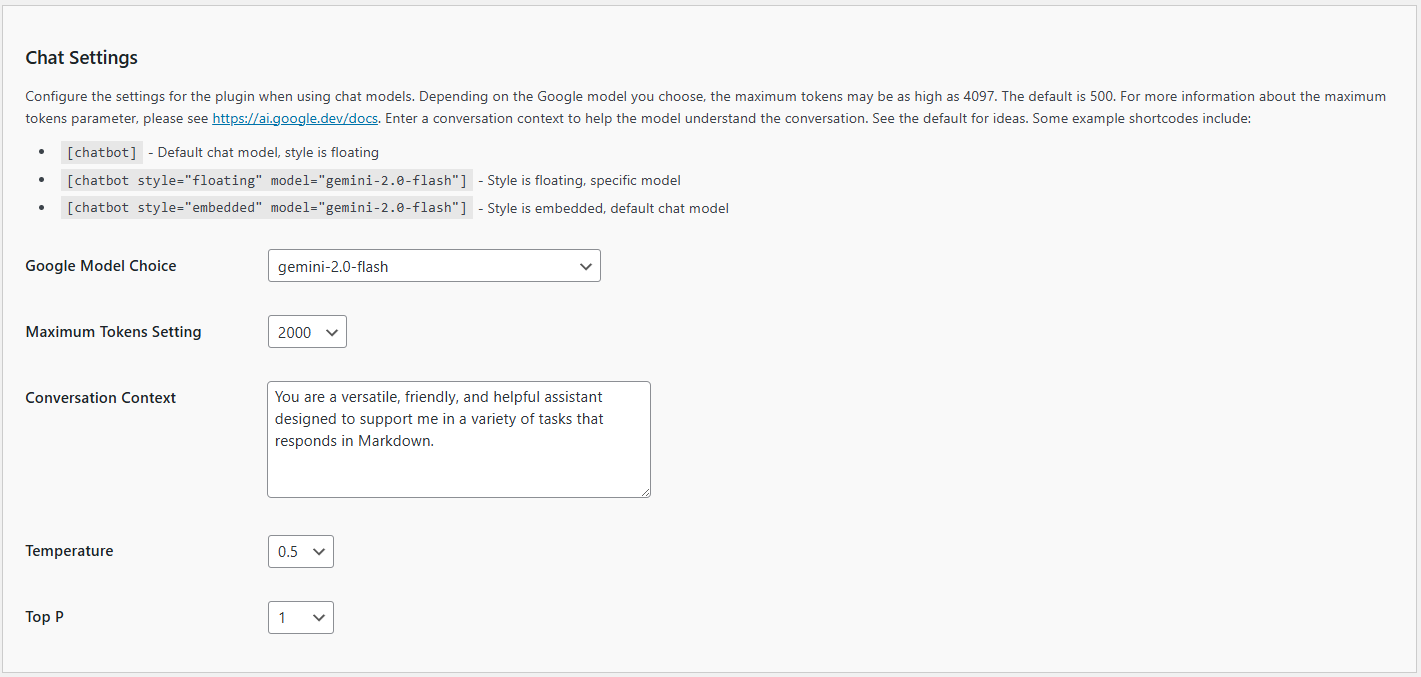
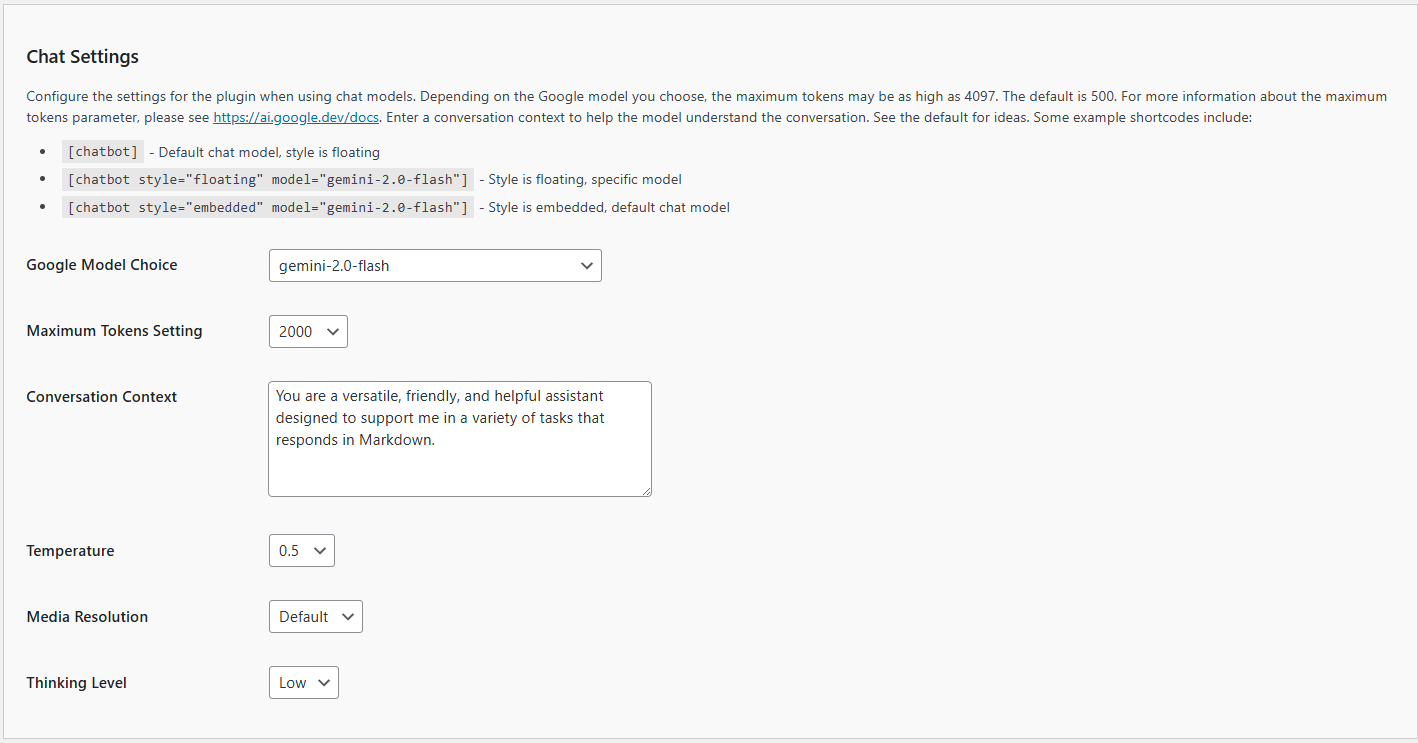
V2.3.9 - Updated the documentation for the Maximum Tokens Setting across all API documentation

diff --git a/documentation/api-google-settings/chat-settings.md b/documentation/api-google-settings/chat-settings.md
@@ -11,8 +11,8 @@ To ensure your Kognetiks Chatbot functions optimally, you need to configure the 
 
 2. **Maximum Tokens Setting**:
    - **Description**: This setting determines the maximum number of tokens (words and parts of words) the model can use in a single response. This helps control the length and detail of the responses.
-   - **Default Value**: The default is set to 150 tokens, but it can be increased up to 4097 tokens.
-   - **How to Set**: Enter the desired number of tokens in the provided field. For example, `1000`.
+   - **Default Value**: The default is set to 1000 tokens, but it can be adjusted between 100 and 10000 tokens.
+   - **How to Set**: Select the desired number of tokens from the dropdown menu. For example, `1000`.
 
 3. **Conversation Context**:
    - **Description**: This field is used to set the context for the conversation, helping the model understand the nature and tone of interactions.
@@ -20,14 +20,27 @@ To ensure your Kognetiks Chatbot functions optimally, you need to configure the 
    - **How to Set**: Enter a suitable conversation context that matches the intended use of the chatbot.
 
 4. **Temperature**:
-   - **Description**: This setting controls the randomness of the model's responses. A lower value (closer to 0) makes the output more focused and deterministic, while a higher value (closer to 1) makes it more random and creative.
+   - **Description**: This setting controls the randomness of the model's responses. A lower value (closer to 0) makes the output more focused and deterministic, while a higher value (closer to 2) makes it more random and creative.
    - **Default Value**: The default is set to 0.5.
-   - **How to Set**: Use the dropdown menu to select a value between 0 and 1.
+   - **How to Set**: Use the dropdown menu to select a value between 0.01 and 2.01.
 
-5. **Top P**:
-   - **Description**: This setting, also known as "nucleus sampling," controls the diversity of the responses. It considers the smallest possible set of words whose cumulative probability is greater than or equal to the value of `Top P`.
-   - **Default Value**: The default is set to 1.
-   - **How to Set**: Use the dropdown menu to select a value between 0 and 1.
+5. **Media Resolution**:
+   - **Description**: This setting controls the resolution quality for media (images) processed by the model. Higher resolutions provide more detail but may increase processing time and token usage. This setting is particularly useful when working with vision-enabled models.
+   - **Options**: 
+     - **Default**: Uses the model's default media resolution
+     - **Low**: Lower resolution, faster processing, fewer tokens
+     - **Medium**: Balanced resolution and processing
+     - **High**: Higher resolution, more detailed analysis, more tokens
+   - **Default Value**: The default is set to "Default".
+   - **How to Set**: Select the desired resolution from the dropdown menu.
+
+6. **Thinking Level**:
+   - **Description**: This setting controls the depth of reasoning for thinking models (such as Gemini 2.0 Thinking models). A higher thinking level allows the model to engage in more complex reasoning processes, which can improve problem-solving capabilities but may increase response time.
+   - **Options**:
+     - **Low**: Faster responses with basic reasoning
+     - **High**: Slower responses with deeper, more thorough reasoning
+   - **Default Value**: The default is set to "Low".
+   - **How to Set**: Select the desired thinking level from the dropdown menu.
 
 ## Example Shortcodes
 
@@ -55,21 +68,27 @@ To ensure your Kognetiks Chatbot functions optimally, you need to configure the 
 
 2. Select the default chat model from the dropdown menu.
 
-3. Enter the maximum tokens setting appropriate for your needs.
+3. Select the maximum tokens setting appropriate for your needs.
 
 4. Provide a clear and concise conversation context to guide the chatbot's interactions.
 
 5. Adjust the temperature setting to control the creativity of the responses.
 
-6. Adjust the Top P setting to manage the diversity of the responses.
+6. Select the media resolution appropriate for your use case (especially important for vision-enabled models).
 
-7. Save the settings.
+7. Select the thinking level if you're using a thinking model (Low for faster responses, High for deeper reasoning).
+
+8. Save the settings.
 
 ## Tips
 
 - **Adjusting Token Limits**: Higher token limits can result in more detailed responses but also increase API usage.
 
-- **Experiment with Temperature and Top P**: Fine-tuning these settings can help you achieve the desired balance between response creativity and coherence.
+- **Experiment with Temperature**: Fine-tuning this setting can help you achieve the desired balance between response creativity and coherence.
+
+- **Media Resolution Considerations**: When working with images, choose a resolution that balances detail with processing speed and token usage. Higher resolutions are better for detailed image analysis but consume more tokens.
+
+- **Thinking Level Selection**: Use "High" thinking level for complex problem-solving tasks, but expect longer response times. Use "Low" for faster, more straightforward interactions.
 
 - **Context Matters**: Providing a well-defined conversation context can significantly improve the relevance and helpfulness of the chatbot's responses.
 

diff --git a/documentation/api-azure-openai-settings/chat-settings.md b/documentation/api-azure-openai-settings/chat-settings.md
@@ -11,8 +11,8 @@ To ensure your Kognetiks Chatbot functions optimally, you need to configure the 
 
 2. **Maximum Tokens Setting**:
    - **Description**: This setting determines the maximum number of tokens (words and parts of words) the model can use in a single response. This helps control the length and detail of the responses.
-   - **Default Value**: The default is set to 150 tokens, but it can be increased up to 4097 tokens.
-   - **How to Set**: Enter the desired number of tokens in the provided field. For example, `1000`.
+   - **Default Value**: The default is set to 1000 tokens, but it can be increased up to 16384 tokens.
+   - **How to Set**: Select the desired number of tokens from the dropdown menu. For example, `1000`.
 
 3. **Conversation Context**:
    - **Description**: This field is used to set the context for the conversation, helping the model understand the nature and tone of interactions.

diff --git a/documentation/api-chatgpt-settings/chat-settings.md b/documentation/api-chatgpt-settings/chat-settings.md
@@ -11,8 +11,8 @@ To ensure your Kognetiks Chatbot functions optimally, you need to configure the 
 
 2. **Maximum Tokens Setting**:
    - **Description**: This setting determines the maximum number of tokens (words and parts of words) the model can use in a single response. This helps control the length and detail of the responses.
-   - **Default Value**: The default is set to 150 tokens, but it can be increased up to 4097 tokens.
-   - **How to Set**: Enter the desired number of tokens in the provided field. For example, `1000`.
+   - **Default Value**: The default is set to 1000 tokens, but it can be increased up to 16384 tokens.
+   - **How to Set**: Select the desired number of tokens from the dropdown menu. For example, `1000`.
 
 3. **Conversation Context**:
    - **Description**: This field is used to set the context for the conversation, helping the model understand the nature and tone of interactions.

diff --git a/documentation/api-anthropic-settings/chat-settings.md b/documentation/api-anthropic-settings/chat-settings.md
@@ -11,8 +11,8 @@ To ensure your Kognetiks Chatbot functions optimally, you need to configure the 
 
 2. **Maximum Tokens Setting**:
    - **Description**: This setting determines the maximum number of tokens (words and parts of words) the model can use in a single response. This helps control the length and detail of the responses.
-   - **Default Value**: The default is set to 150 tokens, but it can be increased up to 4097 tokens.
-   - **How to Set**: Enter the desired number of tokens in the provided field. For example, `1000`.
+   - **Default Value**: The default is set to 1000 tokens, but it can be increased up to 8192 tokens.
+   - **How to Set**: Select the desired number of tokens from the dropdown menu. For example, `1000`.
 
 3. **Conversation Context**:
    - **Description**: This field is used to set the context for the conversation, helping the model understand the nature and tone of interactions.

diff --git a/documentation/api-deepseek-settings/chat-settings.md b/documentation/api-deepseek-settings/chat-settings.md
@@ -11,8 +11,8 @@ To ensure your Kognetiks Chatbot functions optimally, you need to configure the 
 
 2. **Maximum Tokens Setting**:
    - **Description**: This setting determines the maximum number of tokens (words and parts of words) the model can use in a single response. This helps control the length and detail of the responses.
-   - **Default Value**: The default is set to 150 tokens, but it can be increased up to 4097 tokens.
-   - **How to Set**: Enter the desired number of tokens in the provided field. For example, `1000`.
+   - **Default Value**: The default is set to 1000 tokens, but it can be increased up to 4096 tokens.
+   - **How to Set**: Select the desired number of tokens from the dropdown menu. For example, `1000`.
 
 3. **Conversation Context**:
    - **Description**: This field is used to set the context for the conversation, helping the model understand the nature and tone of interactions.

diff --git a/documentation/api-local-settings/chat-settings.md b/documentation/api-local-settings/chat-settings.md
@@ -11,8 +11,8 @@ To ensure your Kognetiks Chatbot functions optimally, you need to configure the 
 
 2. **Maximum Tokens Setting**:
    - **Description**: This setting determines the maximum number of tokens (words and parts of words) the model can use in a single response. This helps control the length and detail of the responses.
-   - **Default Value**: The default is set to 150 tokens, but it can be increased up to 4097 tokens.
-   - **How to Set**: Enter the desired number of tokens in the provided field. For example, `1000`.
+   - **Default Value**: The default is set to 1000 tokens, but it can be increased up to 4096 tokens.
+   - **How to Set**: Select the desired number of tokens from the dropdown menu. For example, `1000`.
 
 3. **Conversation Context**:
    - **Description**: This field is used to set the context for the conversation, helping the model understand the nature and tone of interactions.

diff --git a/documentation/api-mistral-settings/chat-settings.md b/documentation/api-mistral-settings/chat-settings.md
@@ -11,8 +11,8 @@ To ensure your Kognetiks Chatbot functions optimally, you need to configure the 
 
 2. **Maximum Tokens Setting**:
    - **Description**: This setting determines the maximum number of tokens (words and parts of words) the model can use in a single response. This helps control the length and detail of the responses.
-   - **Default Value**: The default is set to 150 tokens, but it can be increased up to 4097 tokens.
-   - **How to Set**: Enter the desired number of tokens in the provided field. For example, `1000`.
+   - **Default Value**: The default is set to 1000 tokens, but it can be increased up to 8192 tokens.
+   - **How to Set**: Select the desired number of tokens from the dropdown menu. For example, `1000`.
 
 3. **Conversation Context**:
    - **Description**: This field is used to set the context for the conversation, helping the model understand the nature and tone of interactions.

diff --git a/documentation/api-nvidia-settings/chat-settings.md b/documentation/api-nvidia-settings/chat-settings.md
@@ -11,8 +11,8 @@ To ensure your Kognetiks Chatbot functions optimally, you need to configure the 
 
 2. **Maximum Tokens Setting**:
    - **Description**: This setting determines the maximum number of tokens (words and parts of words) the model can use in a single response. This helps control the length and detail of the responses.
-   - **Default Value**: The default is set to 150 tokens, but it can be increased up to 4097 tokens.
-   - **How to Set**: Enter the desired number of tokens in the provided field. For example, `1000`.
+   - **Default Value**: The default is set to 1000 tokens, but it can be increased up to 4096 tokens.
+   - **How to Set**: Select the desired number of tokens from the dropdown menu. For example, `1000`.
 
 3. **Conversation Context**:
    - **Description**: This field is used to set the context for the conversation, helping the model understand the nature and tone of interactions.
